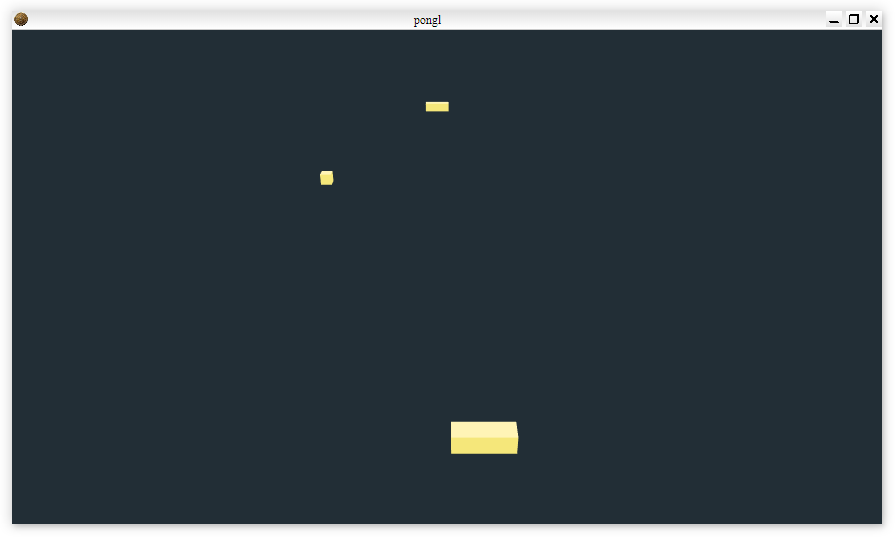
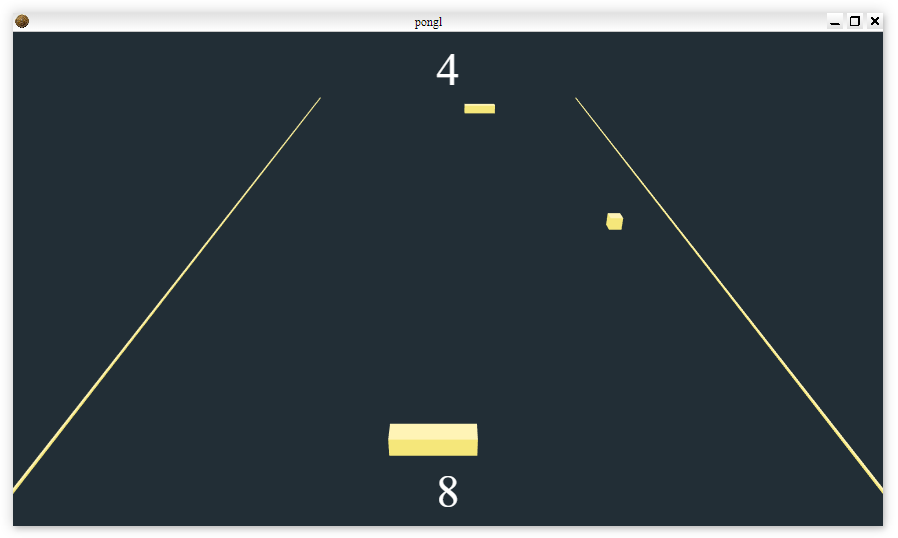
Added sound effects and level bounds graphics.

diff --git a/src/main.js b/src/main.js
@@ -198,6 +198,20 @@ function main(){
 	let bDir = getNormalizedDirection(Math.random() * 2 - 1, 0, Math.random() * 2 - 1);
 	let bSpeed = 30;
 
+
+	//bound bar stuff
+	let levelWidth = 36;
+	let levelDepth = 72;
+	let leftBoundTransform = new Transform();
+	leftBoundTransform.setScale(0.1, 0.1, levelDepth);
+	leftBoundTransform.setPosition(-(levelWidth/2) - 0.05, 0, 0);
+
+	let rightBoundTransform = new Transform();
+	rightBoundTransform.setScale(0.1, 0.1, levelDepth);
+	rightBoundTransform.setPosition((levelWidth/2) + 0.05, 0, 0);
+
+
+
 	//UI stuff
 	let aiScoreElement = document.getElementById('ai_score_text');
 	let playerScoreElement = document.getElementById('player_score_text');
@@ -211,6 +225,12 @@ function main(){
 	let aiScore = 0;
 	let playerScore = 0;
 
+	let boopSound = new Audio('../res/sounds/boop.wav');
+	boopSound.volume = 0.01;
+
+	let boopSound2 = new Audio('../res/sounds/boop2.wav');
+	boopSound2.volume = 0.02;
+
 
 
 	//Begin render loop
@@ -221,8 +241,7 @@ function main(){
 		now *= 0.001;
 		let deltaTime = now - then;
 
-		let levelWidth = 36;
-		let levelDepth = 72;
+		
 
 		//Input stuffs
 		if(Keyboard.getKey(Keyboard.KeyCode.LEFT)){
@@ -318,18 +337,66 @@ function main(){
 		if(bLeft < -(levelWidth/2.0)){
 			bPos[0] = -(levelWidth/2.0) + bHalfScale[0];
 			bDir[0] = -bDir[0];
+			boopSound2.play();
 		}else if(bRight > (levelWidth/2.0)){
 			bPos[0] = (levelWidth/2.0) - bHalfScale[0];
 			bDir[0] = -bDir[0];
+			boopSound2.play();
 		}
 
 		//Move ball "vertically"
 		bPos[2] += bDir[2] * bSpeed * deltaTime;		
 
+		
+
+		//Check ball collision with player paddle
+		if(bLeft < pRight && bRight > pLeft){
+			//console.log('in column above player paddle');
+			if(bBottom > pTop){
+				//console.log('collision');
+				
+				if(bPos[2] < pPos[2]){ //if ball is already past the paddle dont make it bounce. (obv not perfect but works)
+					bPos[2] = pPos[2] - pHalfScale[2] - bHalfScale[2];
+					bDir[2] = -bDir[2];
+
+					if(bPos[0] > pPos[0]){
+						bDir[0] += 0.5;
+					}else if(bPos[0] < pPos[0]){
+						bDir[0] -= 0.5;
+					}
+
+					boopSound.volume = 0.03;
+					boopSound.play();
+				}
+			}
+		}
+
+		//Check ball collision with ai paddle
+		if(bLeft < aiRight && bRight > aiLeft){
+			//console.log('in column below ai paddle');
+			if(bTop < aiBottom){
+				//console.log('collision');
+				
+				if(bPos[2] > aiPos[2]){
+					bPos[2] = aiPos[2] + aiHalfScale[2] + bHalfScale[2];
+					bDir[2] = -bDir[2];
+
+					if(bPos[0] > aiPos[0]){
+						bDir[0] += 0.5;
+					}else if(bPos[0] < aiPos[0]){
+						bDir[0] -= 0.5;
+					}
+
+					boopSound.volume = 0.01;
+					boopSound.play();
+				}
+			}
+		}
+
 		//check "vertical" bounds collision
-		if(bTop < -(levelDepth/2.0)){
+		if(bTop < -(levelDepth/2.0) + 2){
 			//display result message
-			console.log('Player wins!');
+			//console.log('Player wins!');
 
 			//update score
 			playerScore += 1;
@@ -340,9 +407,9 @@ function main(){
 			bPos[1] = 0;
 			bPos[2] = 0;
 			bDir = getNormalizedDirection(Math.random() * 2 - 1, 0, Math.random() * 2 - 1);
-		}else if(bBottom > (levelDepth/2.0)){
+		}else if(bBottom > (levelDepth/2.0) + 2){
 			//display result message
-			console.log('AI wins.. I mean.. YAY!');
+			//console.log('AI wins.. I mean.. YAY!');
 
 			//update score
 			aiScore += 1;
@@ -353,42 +420,6 @@ function main(){
 			bPos[1] = 0;
 			bPos[2] = 0;
 			bDir = getNormalizedDirection(Math.random() * 2 - 1, 0, Math.random() * 2 - 1);
-		}
-
-		//Check ball collision with player paddle
-		if(bLeft < pRight && bRight > pLeft){
-			//console.log('in column above player paddle');
-			if(bBottom > pTop){
-				//console.log('collision');
-				if(bPos[2] < pPos[2]){ //if ball is already past the paddle dont make it bounce. (obv not perfect but works)
-					bPos[2] = pPos[2] - pHalfScale[2] - bHalfScale[2];
-					bDir[2] = -bDir[2];
-
-					if(bPos[0] > pPos[0]){
-						bDir[0] += 0.5;
-					}else if(bPos[0] < pPos[0]){
-						bDir[0] -= 0.5;
-					}
-				}
-			}
-		}
-
-		//Check ball collision with ai paddle
-		if(bLeft < aiRight && bRight > aiLeft){
-			//console.log('in column below ai paddle');
-			if(bTop < aiBottom){
-				//console.log('collision');
-				if(bPos[2] > aiPos[2]){
-					bPos[2] = aiPos[2] + aiHalfScale[2] + bHalfScale[2];
-					bDir[2] = -bDir[2];
-
-					if(bPos[0] > aiPos[0]){
-						bDir[0] += 0.5;
-					}else if(bPos[0] < aiPos[0]){
-						bDir[0] -= 0.5;
-					}
-				}
-			}
 		}
 
 
@@ -481,6 +512,44 @@ function main(){
 			gl.drawElements(gl.TRIANGLES, count, gl.UNSIGNED_SHORT, 0);
 		}
 
+		{
+			//Setup left bound
+			let modelMatrix = glMatrix.mat4.create();
+			modelMatrix = glMatrix.mat4.translate(modelMatrix, modelMatrix, leftBoundTransform.getPosition());
+			modelMatrix = glMatrix.mat4.rotateX(modelMatrix, modelMatrix, DegToRad(leftBoundTransform.getRotation()[0]));
+			modelMatrix = glMatrix.mat4.rotateY(modelMatrix, modelMatrix, DegToRad(leftBoundTransform.getRotation()[1]));
+			modelMatrix = glMatrix.mat4.rotateZ(modelMatrix, modelMatrix, DegToRad(leftBoundTransform.getRotation()[2]));
+			modelMatrix = glMatrix.mat4.scale(modelMatrix, modelMatrix, leftBoundTransform.getScale());
+			gl.uniformMatrix4fv(modelMatrixLocation, false, modelMatrix);
+		
+		
+			//Draw everything
+			let primitiveType = gl.TRIANGLES;
+			let offset = 0;
+			let count = 30;
+			//gl.drawArrays(primitiveType, offset, count);
+			gl.drawElements(gl.TRIANGLES, count, gl.UNSIGNED_SHORT, 0);
+		}
+
+		{
+			//Setup right bound
+			let modelMatrix = glMatrix.mat4.create();
+			modelMatrix = glMatrix.mat4.translate(modelMatrix, modelMatrix, rightBoundTransform.getPosition());
+			modelMatrix = glMatrix.mat4.rotateX(modelMatrix, modelMatrix, DegToRad(rightBoundTransform.getRotation()[0]));
+			modelMatrix = glMatrix.mat4.rotateY(modelMatrix, modelMatrix, DegToRad(rightBoundTransform.getRotation()[1]));
+			modelMatrix = glMatrix.mat4.rotateZ(modelMatrix, modelMatrix, DegToRad(rightBoundTransform.getRotation()[2]));
+			modelMatrix = glMatrix.mat4.scale(modelMatrix, modelMatrix, rightBoundTransform.getScale());
+			gl.uniformMatrix4fv(modelMatrixLocation, false, modelMatrix);
+		
+		
+			//Draw everything
+			let primitiveType = gl.TRIANGLES;
+			let offset = 0;
+			let count = 30;
+			//gl.drawArrays(primitiveType, offset, count);
+			gl.drawElements(gl.TRIANGLES, count, gl.UNSIGNED_SHORT, 0);
+		}
+
 
 		then = now;
 
@@ -506,7 +575,7 @@ function getNormalizedDirection(x, y, z){
 	dir[1] = dir[1] / mag;
 	dir[2] = dir[2] / mag;
 
-	console.log(mag);
+	//console.log(mag);
 
 	return dir;
 }
